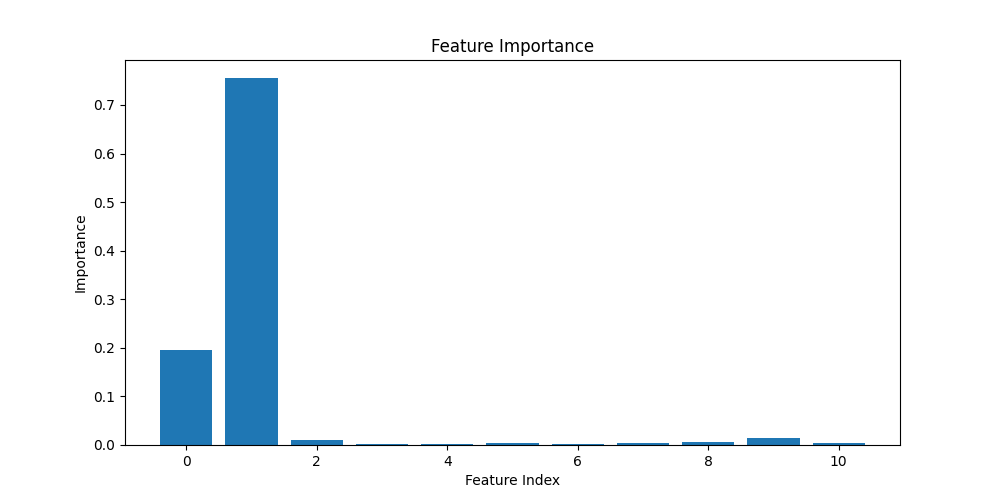
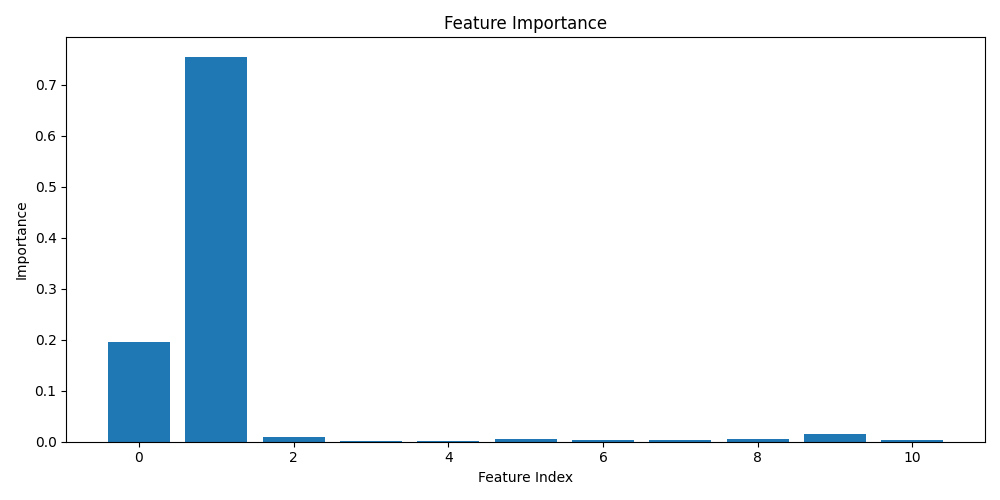
visual update

diff --git a/plots.py b/plots.py
@@ -4,44 +4,79 @@ import numpy as np
 
 def plot_feature_importance(model):
     estimator = model.estimators_[0]
-
     importance = estimator.feature_importances_
 
     plt.figure(figsize=(10, 5))
     plt.bar(range(len(importance)), importance)
+
     plt.title("Feature Importance")
     plt.xlabel("Feature Index")
     plt.ylabel("Importance")
+
+    plt.tight_layout()
     plt.savefig("outputs/feature_importance.png")
     plt.close()
 
 
 def plot_latitude_error(y_test, predictions):
-    error = y_test.iloc[:, 0] - predictions[:, 0]
+    error = y_test.iloc[:, 0].values - predictions[:, 0]
 
     plt.figure(figsize=(10, 5))
-    plt.plot(error)
+    plt.scatter(range(len(error)), error, s=10)
+
+    plt.axhline(
+        y=0,
+        color="red",
+        linestyle="--"
+    )
+
     plt.title("Latitude Error")
+    plt.xlabel("Sample")
+    plt.ylabel("Error")
+
+    plt.tight_layout()
     plt.savefig("outputs/latitude_error.png")
     plt.close()
 
 
 def plot_longitude_error(y_test, predictions):
-    error = y_test.iloc[:, 1] - predictions[:, 1]
+    error = y_test.iloc[:, 1].values - predictions[:, 1]
 
     plt.figure(figsize=(10, 5))
-    plt.plot(error)
+    plt.scatter(range(len(error)), error, s=10)
+
+    plt.axhline(
+        y=0,
+        color="red",
+        linestyle="--"
+    )
+
     plt.title("Longitude Error")
+    plt.xlabel("Sample")
+    plt.ylabel("Error")
+
+    plt.tight_layout()
     plt.savefig("outputs/longitude_error.png")
     plt.close()
 
 
 def plot_altitude_error(y_test, predictions):
-    error = y_test.iloc[:, 2] - predictions[:, 2]
+    error = y_test.iloc[:, 2].values - predictions[:, 2]
 
     plt.figure(figsize=(10, 5))
-    plt.plot(error)
+    plt.scatter(range(len(error)), error, s=10)
+
+    plt.axhline(
+        y=0,
+        color="red",
+        linestyle="--"
+    )
+
     plt.title("Altitude Error")
+    plt.xlabel("Sample")
+    plt.ylabel("Error")
+
+    plt.tight_layout()
     plt.savefig("outputs/altitude_error.png")
     plt.close()
 
@@ -51,7 +86,12 @@ def plot_residuals(y_test, predictions):
 
     plt.figure(figsize=(10, 5))
     plt.hist(residuals, bins=30)
+
     plt.title("Residual Distribution")
+    plt.xlabel("Residual")
+    plt.ylabel("Frequency")
+
+    plt.tight_layout()
     plt.savefig("outputs/residuals.png")
     plt.close()
 
@@ -73,7 +113,47 @@ def plot_trajectory(y_test, predictions):
         label="Predicted"
     )
 
-    plt.legend()
+    plt.xlabel("Latitude")
+    plt.ylabel("Longitude")
+
     plt.title("Trajectory")
+
+    plt.legend()
+
+    plt.tight_layout()
     plt.savefig("outputs/trajectory.png")
+    plt.close()
+
+
+def plot_actual_vs_predicted(y_test, predictions):
+    plt.figure(figsize=(8, 8))
+
+    plt.scatter(
+        y_test.iloc[:, 0],
+        predictions[:, 0],
+        s=10
+    )
+
+    minimum = min(
+        y_test.iloc[:, 0].min(),
+        predictions[:, 0].min()
+    )
+
+    maximum = max(
+        y_test.iloc[:, 0].max(),
+        predictions[:, 0].max()
+    )
+
+    plt.plot(
+        [minimum, maximum],
+        [minimum, maximum],
+        linestyle="--"
+    )
+
+    plt.xlabel("Actual Latitude")
+    plt.ylabel("Predicted Latitude")
+    plt.title("Actual vs Predicted")
+
+    plt.tight_layout()
+    plt.savefig("outputs/actual_vs_predicted.png")
     plt.close()

diff --git a/main.py b/main.py
@@ -15,7 +15,8 @@ from plots import (
     plot_longitude_error,
     plot_altitude_error,
     plot_residuals,
-    plot_trajectory
+    plot_trajectory,
+    plot_actual_vs_predicted
 )
 
 
@@ -38,6 +39,7 @@ def main():
     plot_altitude_error(y_test, predictions)
     plot_residuals(y_test, predictions)
     plot_trajectory(y_test, predictions)
+    plot_actual_vs_predicted(y_test, predictions)
 
     export_metrics(metrics)
     export_predictions(predictions)

diff --git a/README.md b/README.md
@@ -1,1 +1,24 @@
 # NV_ML
+
+Machine-learning framework developed for NV-center-based quantum navigation simulations.
+
+## Objectives
+
+- Generate synthetic datasets.
+- Train machine-learning models.
+- Predict position coordinates.
+- Evaluate model performance.
+- Export results.
+
+## Technologies
+
+- Python
+- NumPy
+- Pandas
+- Matplotlib
+- Scikit-learn
+- XGBoost
+
+## Author
+
+Ujas Banke
